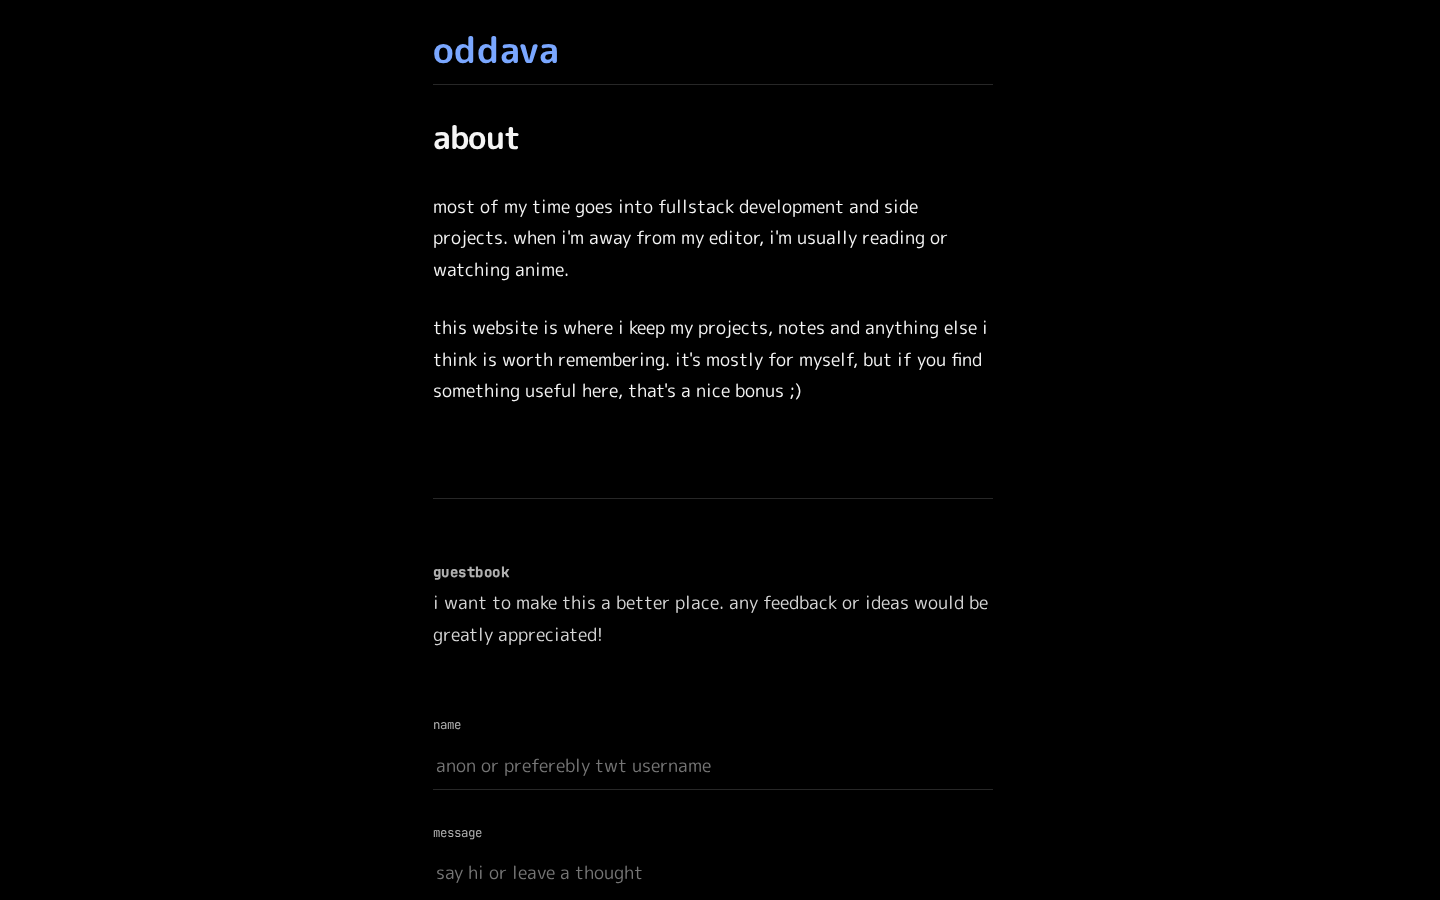
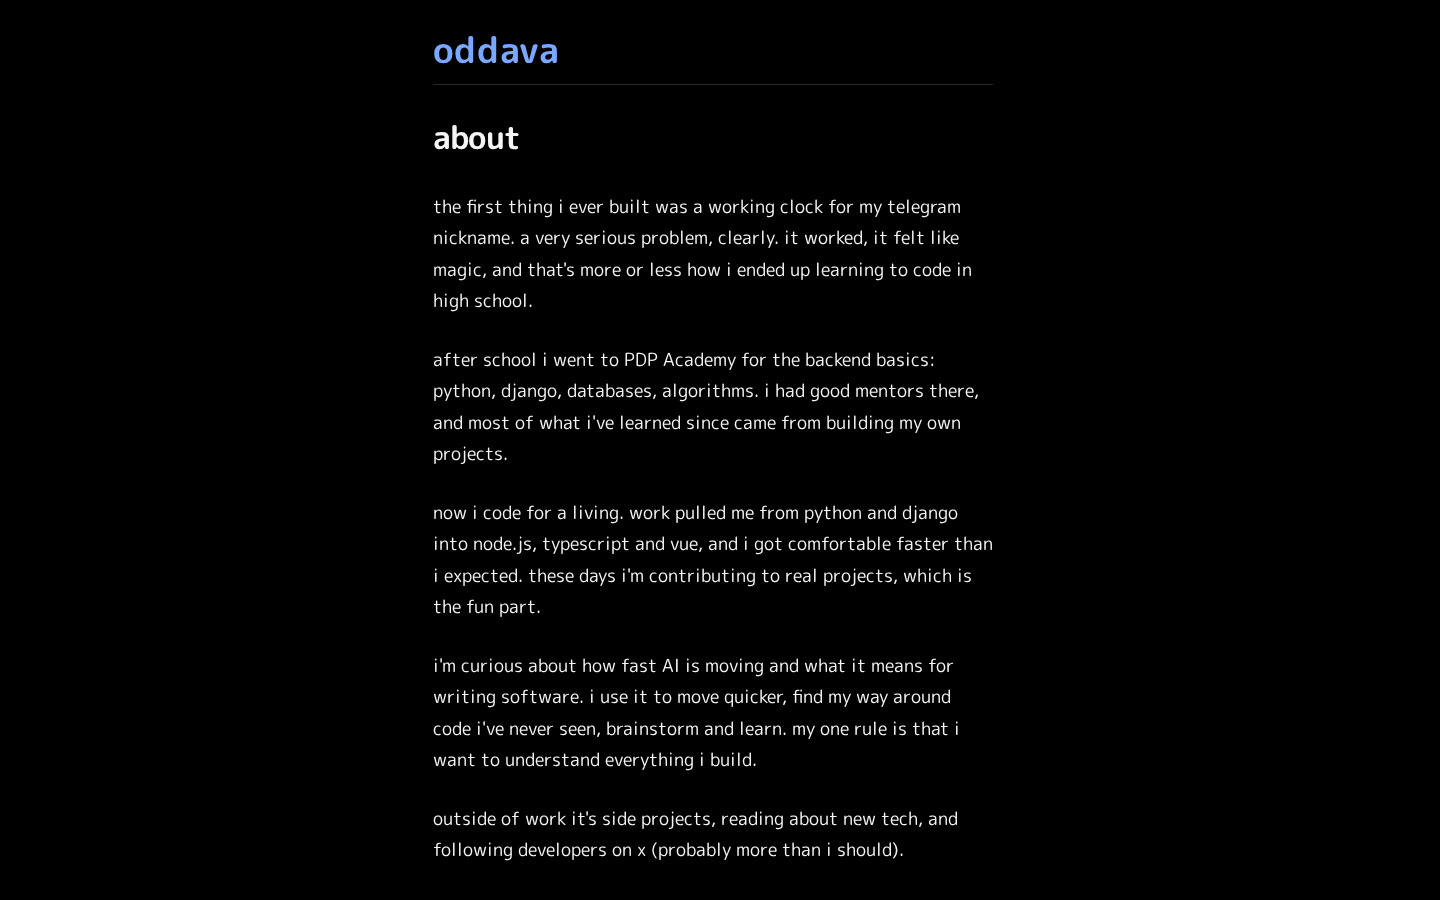
Rewrite homepage and about copy; drop company mention
Refresh README hero GIF and screenshots to match.

diff --git a/README.md b/README.md
@@ -1,6 +1,7 @@
 # oddava.me
 
-Hey, I'm oddava. This is the code behind my personal site, [oddava.me](https://oddava.me).
+Hey, I'm oddava. I got into code because my Telegram name needed a working clock.
+This is the code behind my personal site, [oddava.me](https://oddava.me).
 It's a small corner of the internet with a homepage, a notes garden, and an admin studio I use
 to write.
 
